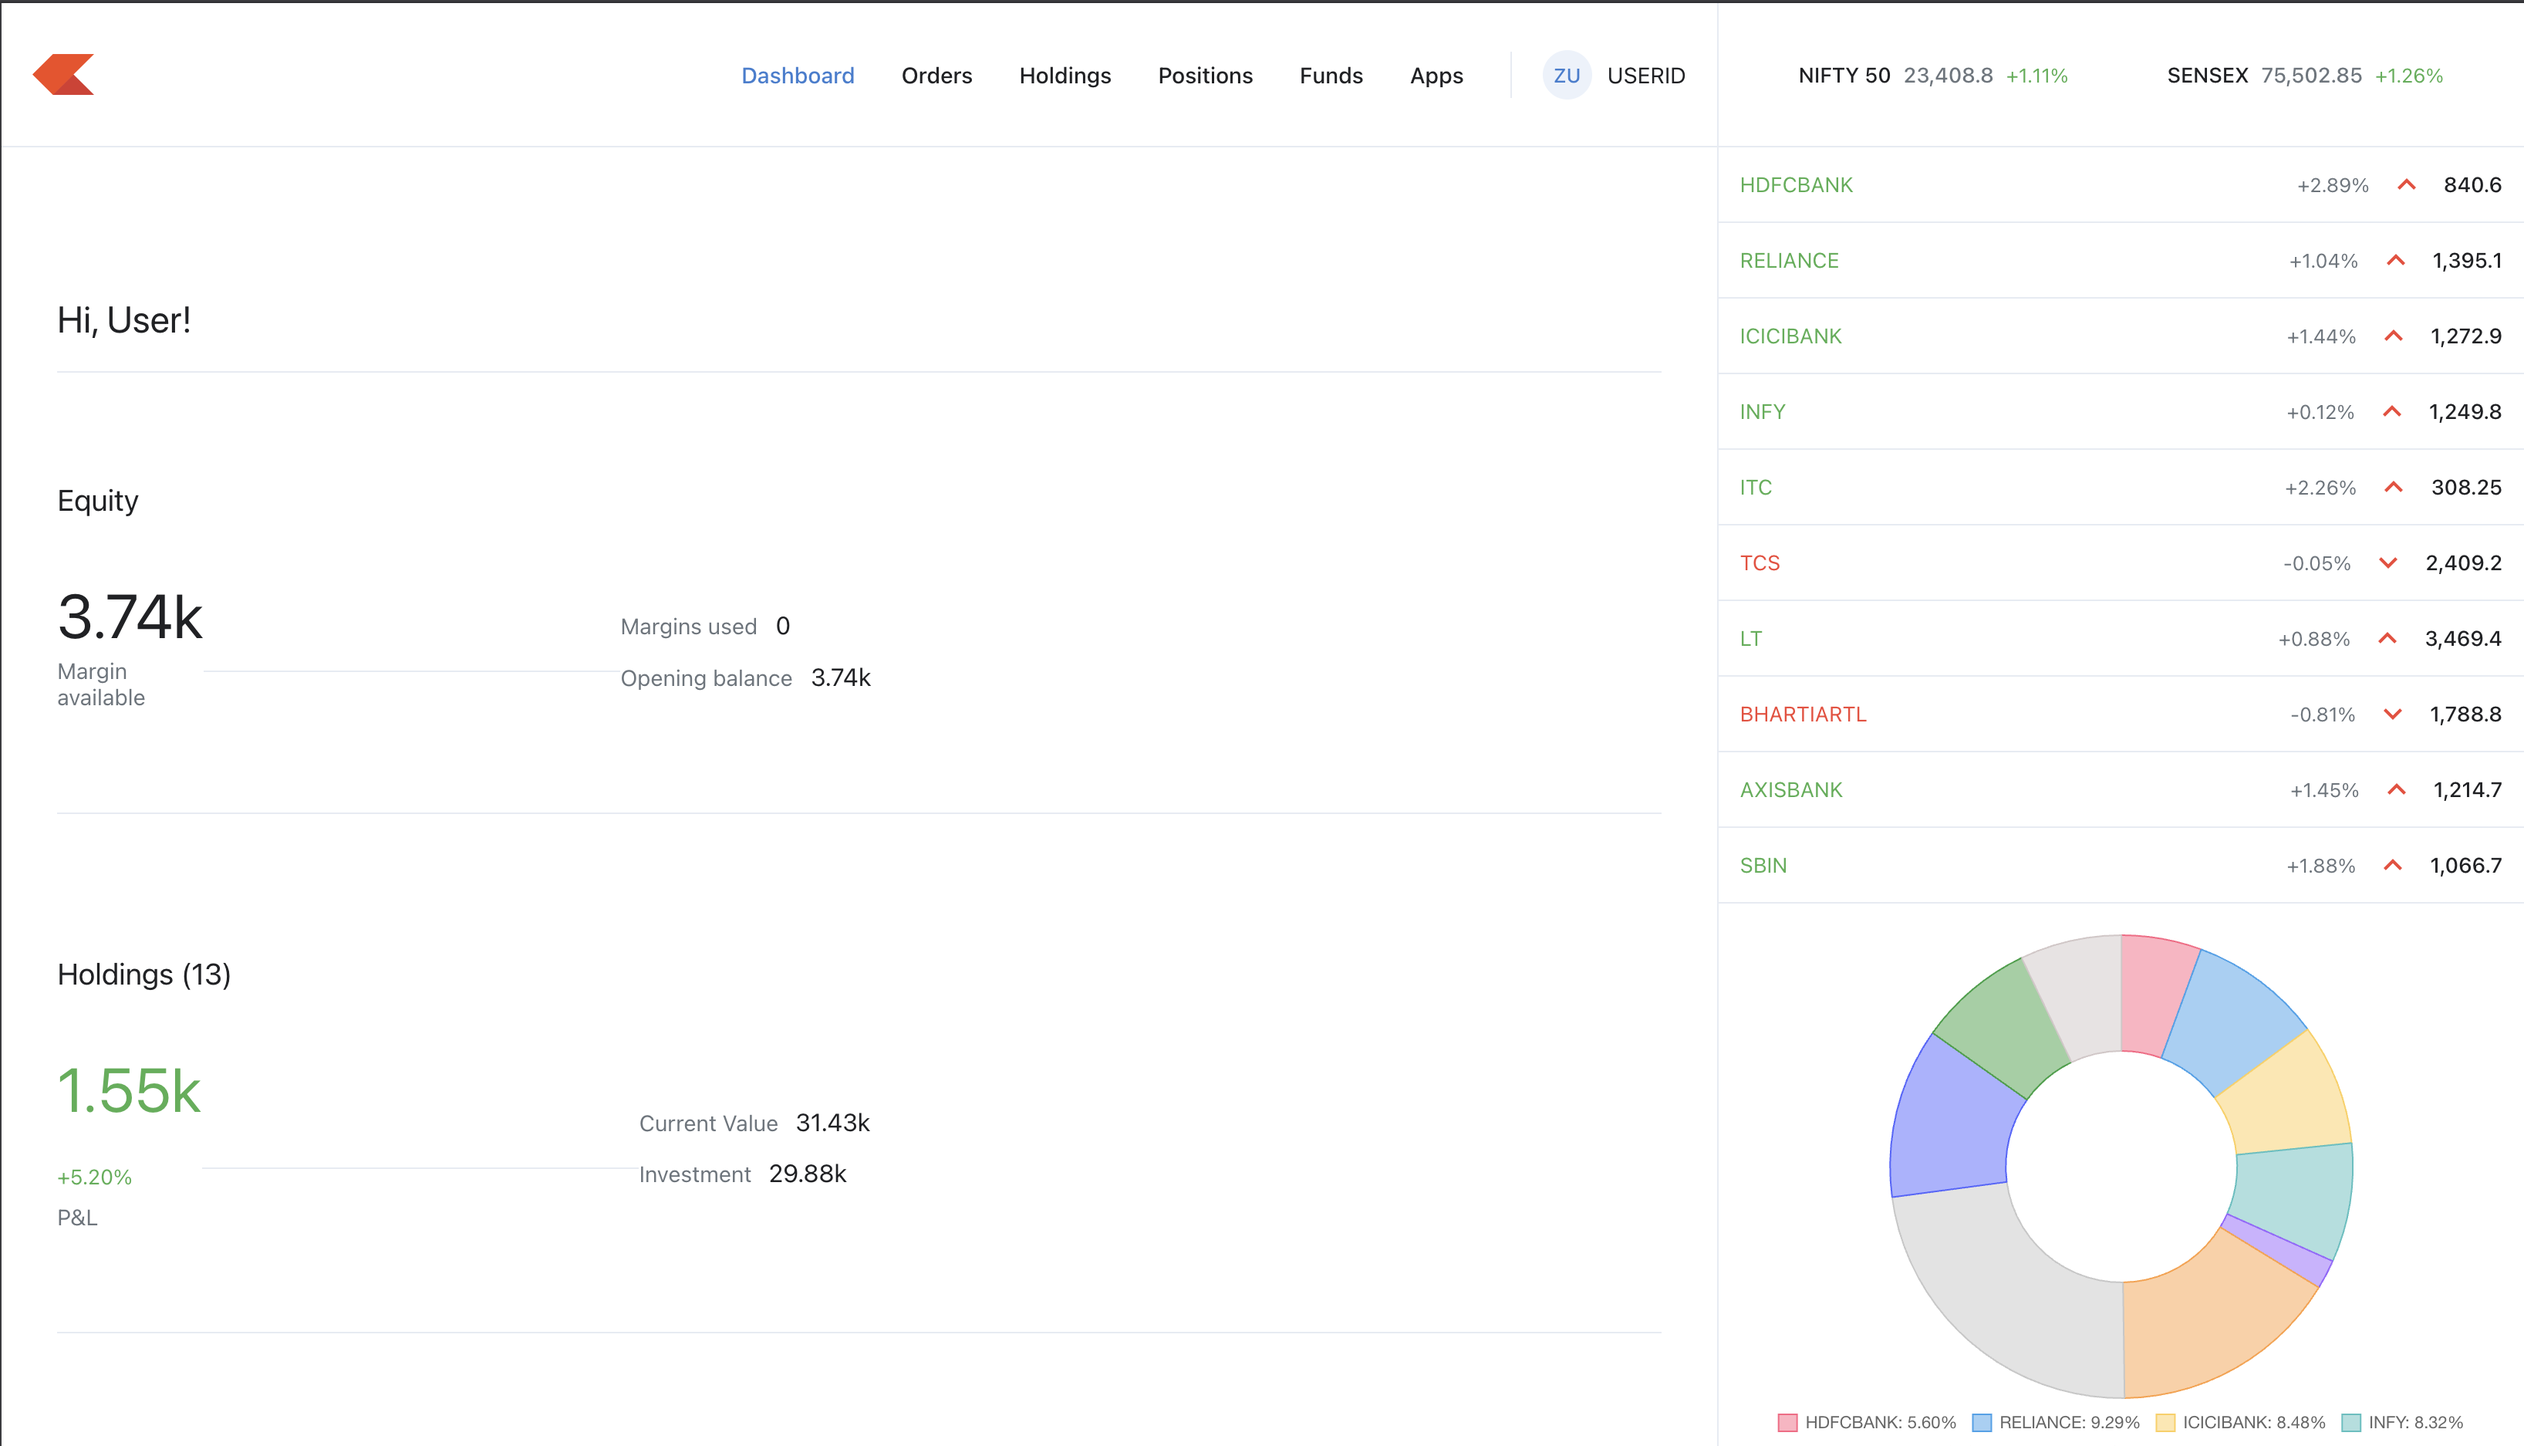
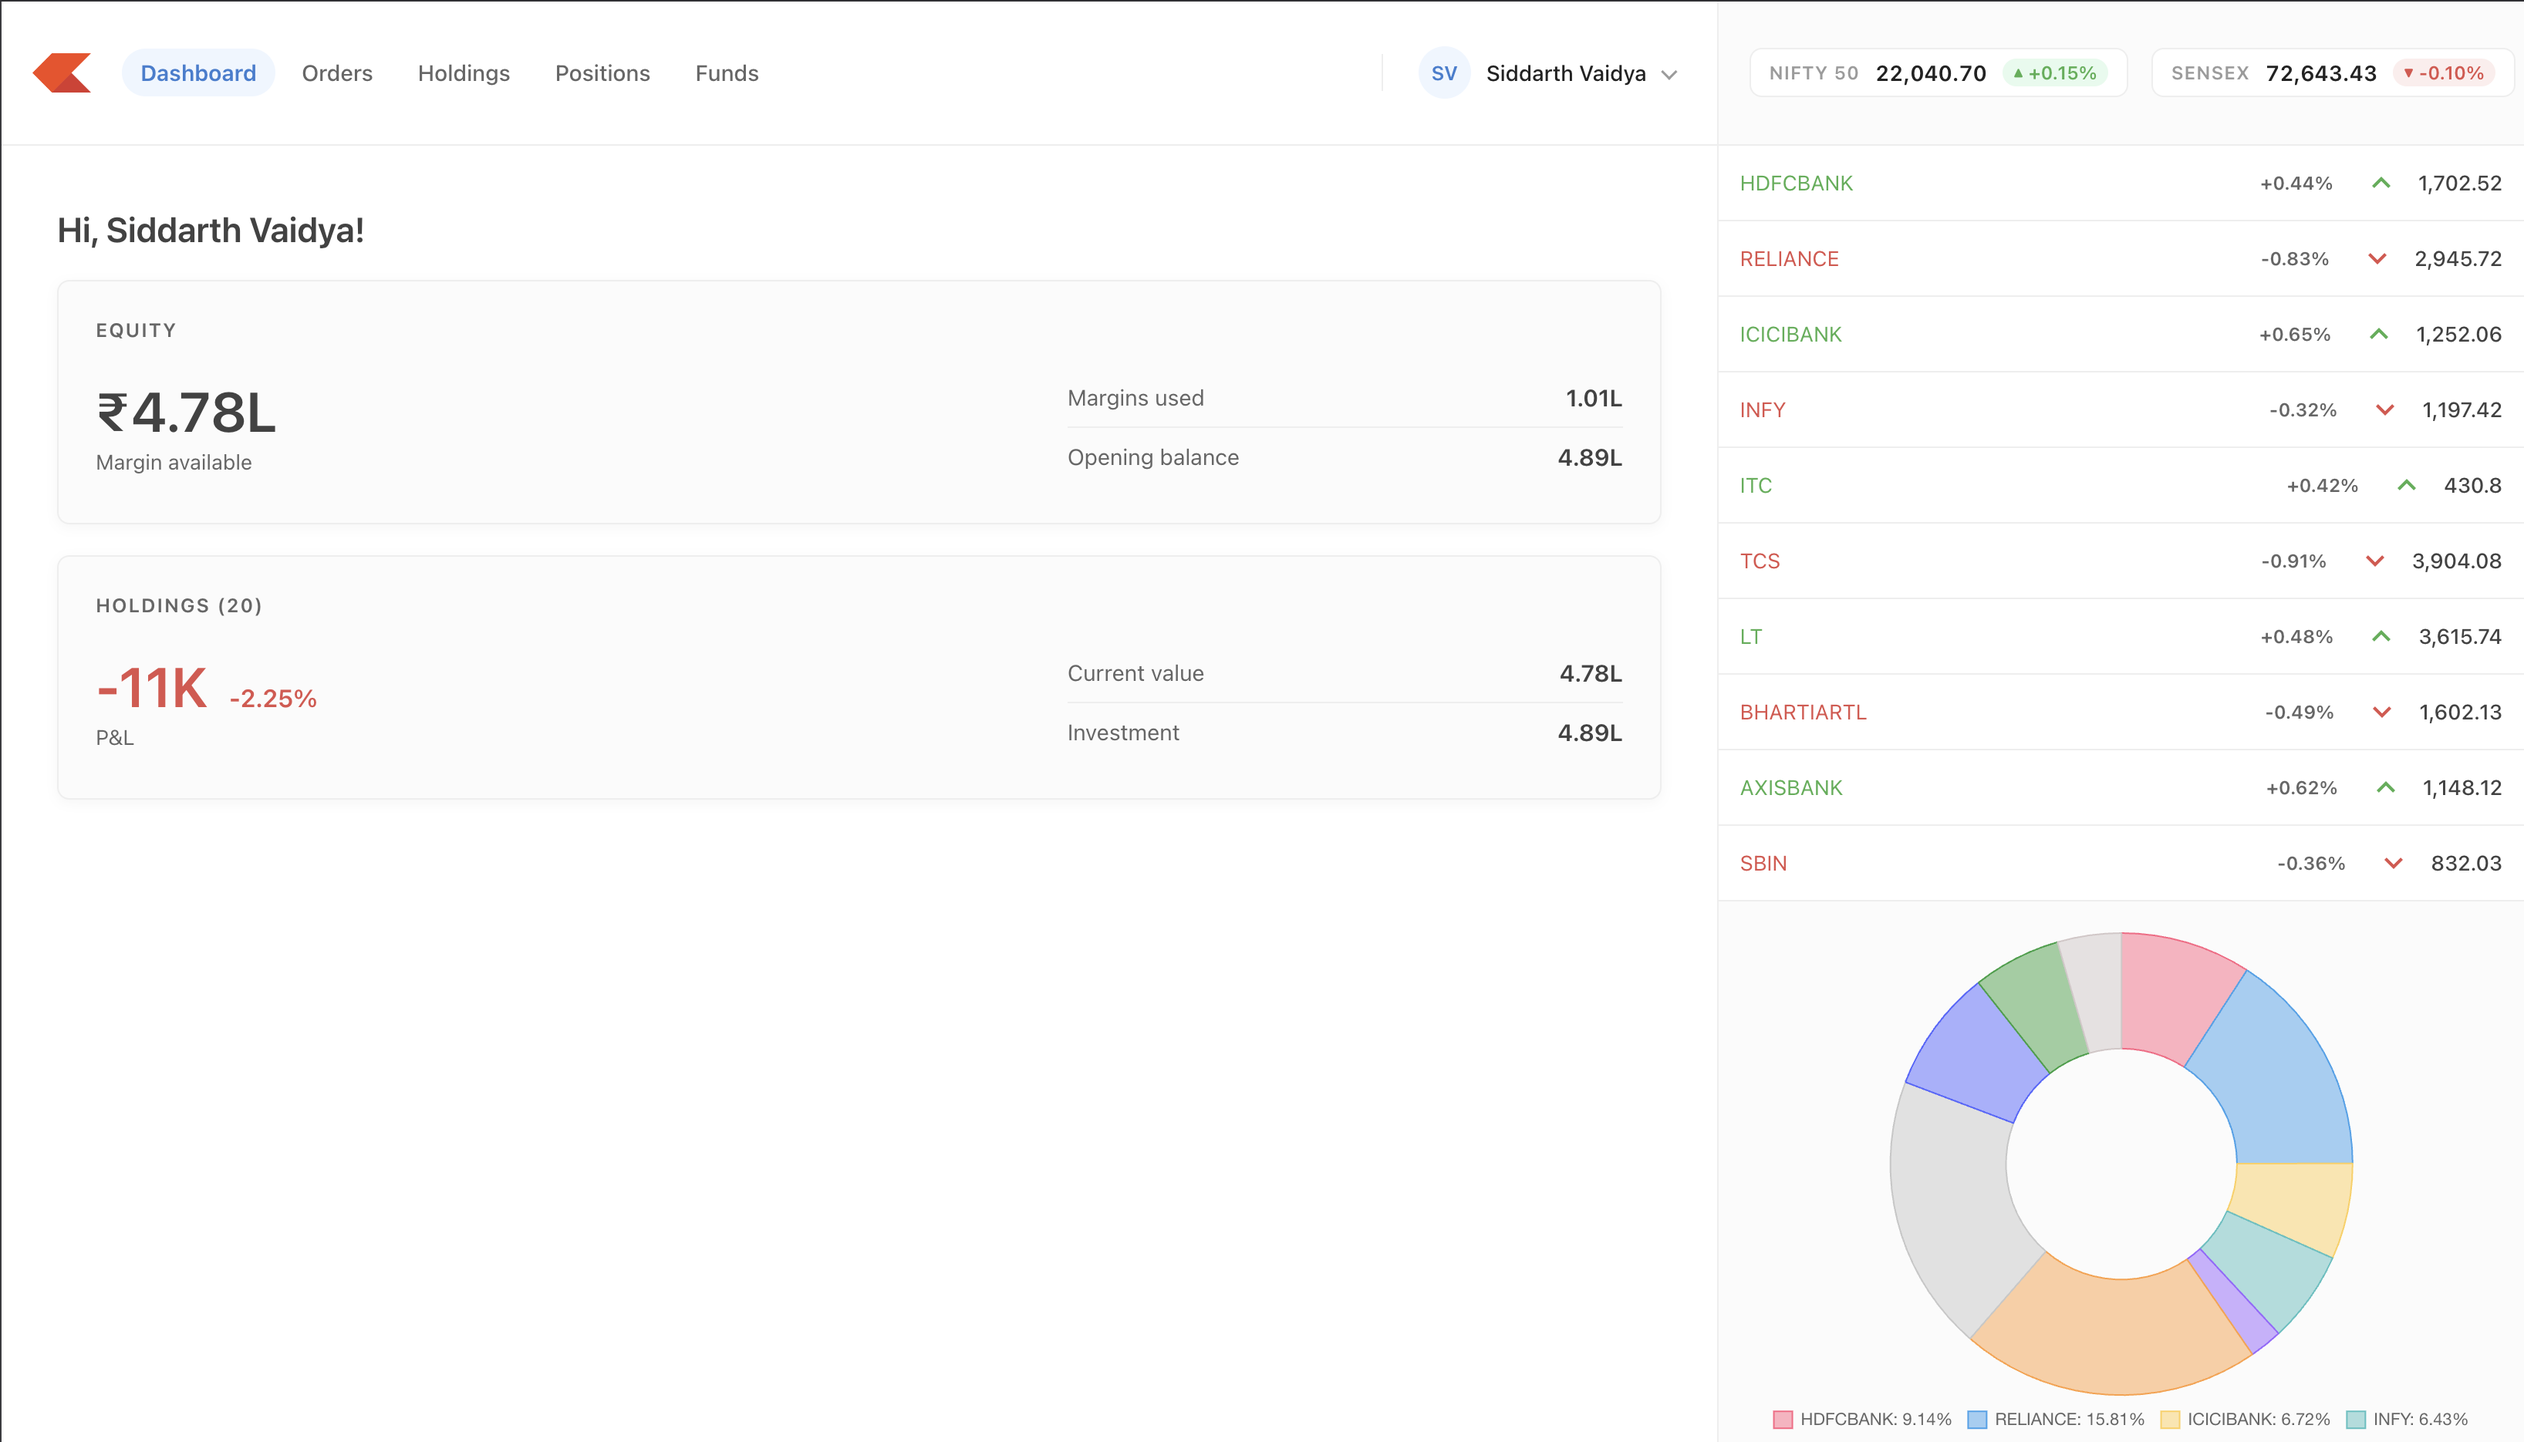
added new screenshots

diff --git a/README.md b/README.md
@@ -20,6 +20,12 @@ A Zerodha-inspired trading platform clone, built as a full-stack learning projec
 
 ![Holdings Chart](assets/Dashboard:Holding%20Chart.png)
 
+![Positions](assets/Dashboard:Postitions.png)
+
+![Orders](assets/Dashboard:Orders.png)
+
+![Funds](assets/Dashboard:Funds.png)
+
 ![Support](assets/Support.png)
 
 ## Tech stack
